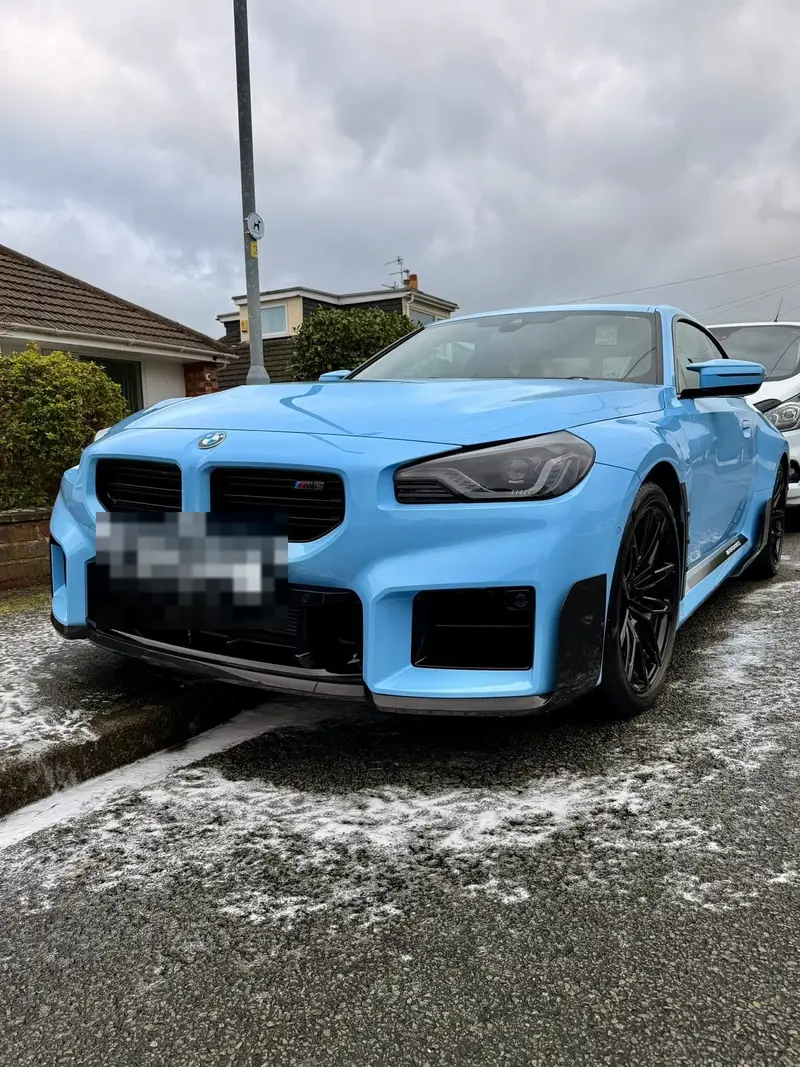
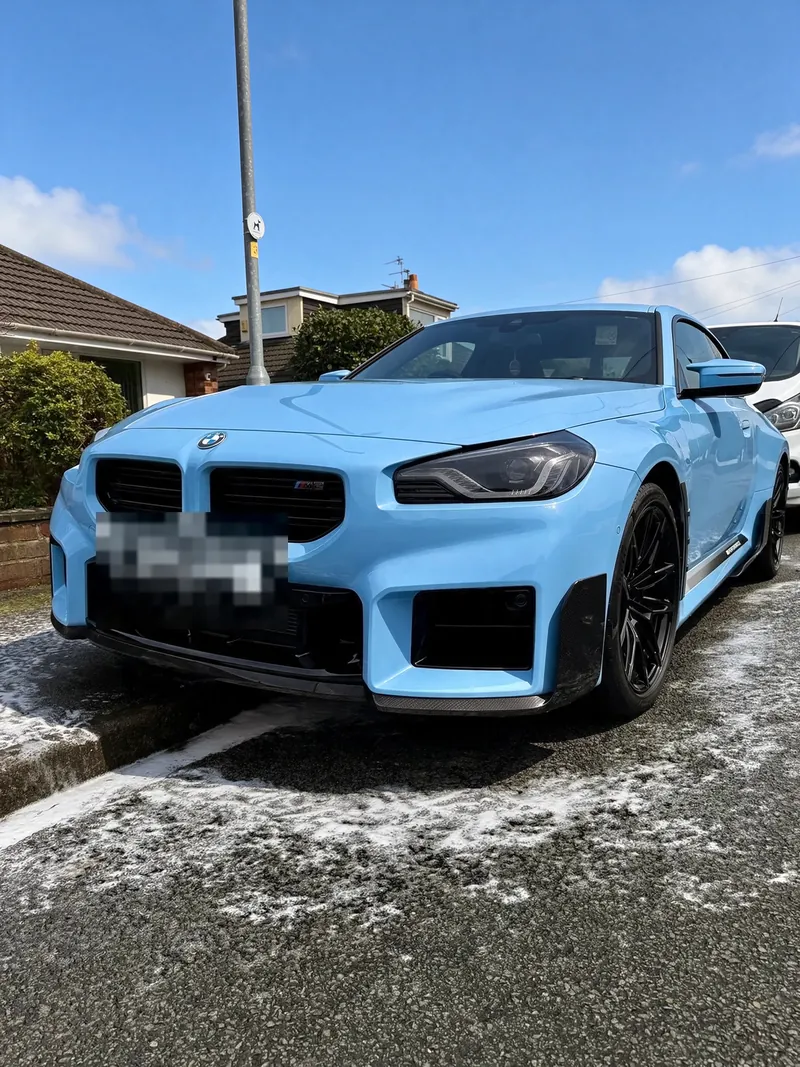
Coverage: Cheshire, North West and North Wales up to Wigan and Manchester; blue-sky photo edits
Claude-Session: https://claude.ai/code/session_01AUvJEac84ZnzudXknFrTQX

diff --git a/components/CoverageMap.tsx b/components/CoverageMap.tsx
@@ -1,21 +1,23 @@
 // Towns plotted from real latitude/longitude (projected into the viewBox), joined by a red route drawn on scroll.
 const TOWNS: { n: string; x: number; y: number; side: "l" | "r" | "t" | "b" }[] = [
-  { n: "Chester", x: 75, y: 288, side: "t" },
-  { n: "Winsford", x: 296, y: 289, side: "b" },
-  { n: "Northwich", x: 298, y: 208, side: "l" },
-  { n: "Wilmslow", x: 470, y: 128, side: "l" },
-  { n: "Bramhall", x: 510, y: 89, side: "l" },
-  { n: "Macclesfield", x: 533, y: 208, side: "l" },
-  { n: "Sandbach", x: 391, y: 344, side: "r" },
-  { n: "Crewe", x: 344, y: 398, side: "r" },
-  { n: "Nantwich", x: 296, y: 436, side: "r" },
+  { n: "Chester", x: 243, y: 336, side: "t" },
+  { n: "Winsford", x: 391, y: 337, side: "b" },
+  { n: "Northwich", x: 393, y: 292, side: "l" },
+  { n: "Wigan", x: 347, y: 100, side: "l" },
+  { n: "Manchester", x: 503, y: 144, side: "l" },
+  { n: "Bramhall", x: 534, y: 225, side: "t" },
+  { n: "Wilmslow", x: 508, y: 247, side: "l" },
+  { n: "Macclesfield", x: 550, y: 292, side: "b" },
+  { n: "Sandbach", x: 455, y: 369, side: "r" },
+  { n: "Crewe", x: 424, y: 399, side: "r" },
+  { n: "Nantwich", x: 391, y: 420, side: "r" },
 ];
 
 export default function CoverageMap() {
   const d = TOWNS.map((t, i) => `${i ? "L" : "M"}${t.x} ${t.y}`).join(" ");
   return (
     <div className="map" data-map>
-      <svg viewBox="0 0 600 520" role="img" aria-label="Map of the Cheshire towns covered: Chester, Winsford, Northwich, Wilmslow, Bramhall, Macclesfield, Sandbach, Crewe and Nantwich">
+      <svg viewBox="0 0 600 520" role="img" aria-label="Map of the area covered: Cheshire, the North West as far north as Wigan and Manchester, and North Wales">
         <defs>
           <pattern id="dots" width="16" height="16" patternUnits="userSpaceOnUse">
             <circle cx="1" cy="1" r="1" fill="rgba(242,241,237,.09)" />
@@ -29,7 +31,12 @@ export default function CoverageMap() {
         {[90, 170, 250].map((r) => (
           <circle key={r} cx="300" cy="270" r={r} fill="none" stroke="rgba(242,241,237,.06)" strokeDasharray="2 6" />
         ))}
-        <text x="0" y="16" className="mono" fill="rgba(242,241,237,.35)" fontSize="11" letterSpacing="2">CHESHIRE · 53.2°N 2.5°W</text>
+        <text x="0" y="16" className="mono" fill="rgba(242,241,237,.35)" fontSize="11" letterSpacing="2">CHESHIRE · NORTH WEST · NORTH WALES</text>
+        <g className="region" data-town>
+          <ellipse cx="112" cy="318" rx="92" ry="58" fill="rgba(227,18,11,.07)" stroke="rgba(227,18,11,.55)" strokeDasharray="4 6" />
+          <text x="112" y="323" textAnchor="middle">North Wales</text>
+        </g>
+        <path d="M243 336 L204 326" fill="none" stroke="#e3120b" strokeWidth="2" strokeDasharray="3 5" opacity=".8" />
         <path d={d} fill="none" stroke="#e3120b" strokeWidth="2" strokeLinejoin="round" strokeLinecap="round" filter="url(#glow)" data-route pathLength={1} strokeDasharray="1" strokeDashoffset="0" />
         {TOWNS.map((t) => (
           <g key={t.n} className="town" data-town>

diff --git a/app/page.tsx b/app/page.tsx
@@ -57,7 +57,7 @@ export default function Home() {
                 <span className="ln ln-last"><span>yourself</span><span className="in-word"><span className="red">in.</span></span></span>
               </h1>
               <p className="lede">
-                <b>Machine polishing</b> to take out swirl marks and <b>Gyeon ceramic coatings</b> to keep the gloss, for cars, vans and motorbikes. Craig comes to you across Cheshire and <b>brings his own water</b>.
+                <b>Machine polishing</b> to take out swirl marks and <b>Gyeon ceramic coatings</b> to keep the gloss, for cars, vans and motorbikes. Craig comes to you across Cheshire, the North West and North Wales, and <b>brings his own water</b>.
               </p>
               <div className="hero-ctas">
                 <WaButton label="Get a quote on WhatsApp" />
@@ -240,7 +240,7 @@ export default function Home() {
             <div>
               <span className="mono eyebrow">Fully mobile</span>
               <h2 id="cov-h" className="display" data-reveal>We bring the water. <span className="red">You supply the power.</span></h2>
-              <p className="lede" data-reveal>No need to provide water, Craig brings his own. All he needs from you is access to a power socket. He covers a wide area, by appointment, including the towns below.</p>
+              <p className="lede" data-reveal>No need to provide water, Craig brings his own. All he needs from you is access to a power socket. He covers Cheshire, the North West and North Wales, as far north as Wigan and Manchester. By appointment.</p>
               <div className="facts">
                 <div><span className="mono" style={{ color: "var(--dim)" }}>Water</span><span className="k">Own supply</span></div>
                 <div><span className="mono" style={{ color: "var(--dim)" }}>Power</span><span className="k">Your socket</span></div>
@@ -287,7 +287,7 @@ export default function Home() {
           </div>
           <div>
             <p className="mono fh">Areas</p>
-            <p>{SITE.towns.join(", ")} and many more</p>
+            <p>{SITE.areas}. As far north as Wigan and Manchester.</p>
           </div>
           <div>
             <p className="mono fh">Follow</p>

diff --git a/app/globals.css b/app/globals.css
@@ -230,7 +230,7 @@ button { font: inherit; color: inherit; }
 .facts .k { font-weight: 800; font-variation-settings: "wdth" 120; font-size: 18px; margin-top: 10px; display: block; }
 .map { position: relative; aspect-ratio: 1 / 0.86; }
 .map svg { width: 100%; height: 100%; overflow: visible; }
-.map .town text { font-family: var(--font-display); font-variation-settings: "wdth" 115; font-weight: 700; font-size: 15px; fill: var(--chrome); letter-spacing: 0.01em; }
+.map .town text, .map .region text { font-family: var(--font-display); font-variation-settings: "wdth" 115; font-weight: 700; font-size: 15px; fill: var(--chrome); letter-spacing: 0.01em; }
 @media (max-width: 820px) {
   .cover-grid { grid-template-columns: 1fr; }
   .facts { grid-template-columns: 1fr; }
@@ -326,7 +326,7 @@ button { font: inherit; color: inherit; }
 }
 
 
-@media (max-width: 820px) { .map .town text { font-size: 25px; } .map { margin-top: 10px; } }
+@media (max-width: 820px) { .map .town text, .map .region text { font-size: 25px; } .map { margin-top: 10px; } }
 
 /* ---------- hero intro (CSS, starts at first paint) ---------- */
 @keyframes rise { from { transform: translateY(108%); } to { transform: none; } }

diff --git a/app/layout.tsx b/app/layout.tsx
@@ -9,7 +9,7 @@ const mono = JetBrains_Mono({ subsets: ["latin"], weight: ["400", "500"], variab
 export const metadata: Metadata = {
   title: "Prestige Cheshire Detailing | Machine polishing & Gyeon ceramic coatings",
   description:
-    "Mobile detailing across Cheshire: machine polishing to remove swirl marks and Gyeon ceramic coatings for cars, vans and motorbikes. Brings his own water. Appointment only.",
+    "Mobile detailing across Cheshire, the North West and North Wales: machine polishing to remove swirl marks and Gyeon ceramic coatings for cars, vans and motorbikes. Brings his own water. Appointment only.",
   robots: { index: false, follow: false, googleBot: { index: false, follow: false } },
   icons: { icon: "/mark.svg" },
 };

diff --git a/lib/site.ts b/lib/site.ts
@@ -8,7 +8,8 @@ export const SITE = {
   facebookReviews: "https://www.facebook.com/prestigecheshirevaleting/reviews",
   waNumber: "447791543486",
   reviews: { count: 21, recommend: 100 },
-  towns: ["Chester", "Northwich", "Winsford", "Sandbach", "Crewe", "Nantwich", "Macclesfield", "Wilmslow", "Bramhall"],
+  areas: "Cheshire, the North West and North Wales",
+  towns: ["Chester", "Northwich", "Winsford", "Sandbach", "Crewe", "Nantwich", "Macclesfield", "Wilmslow", "Bramhall", "Manchester", "Wigan"],
 };
 
 export function waLink(text = "Hi Craig, I'd like a quote for a detail on my vehicle. ") {

diff --git a/components/Builder.tsx b/components/Builder.tsx
@@ -37,6 +37,7 @@ export default function Builder() {
         <select id="town" value={town} onChange={(e) => setTown(e.target.value)}>
           <option value="">Choose a town (optional)</option>
           {SITE.towns.map((t) => <option key={t} value={t}>{t}</option>)}
+          <option value="North Wales">North Wales</option>
           <option value="another area nearby">Somewhere nearby</option>
         </select>
       </div>

diff --git a/components/Faq.tsx b/components/Faq.tsx
@@ -19,7 +19,7 @@ const QA: { q: string; a: React.ReactNode }[] = [
   },
   {
     q: "Which areas do you cover?",
-    a: <>A wide area, including {SITE.towns.join(", ")}. Not sure if you&rsquo;re covered? Just message Craig.</>,
+    a: <>{SITE.areas}, as far north as Wigan and Manchester. Not sure if you&rsquo;re covered? Just message Craig.</>,
   },
   {
     q: "How long does a ceramic coating last?",
